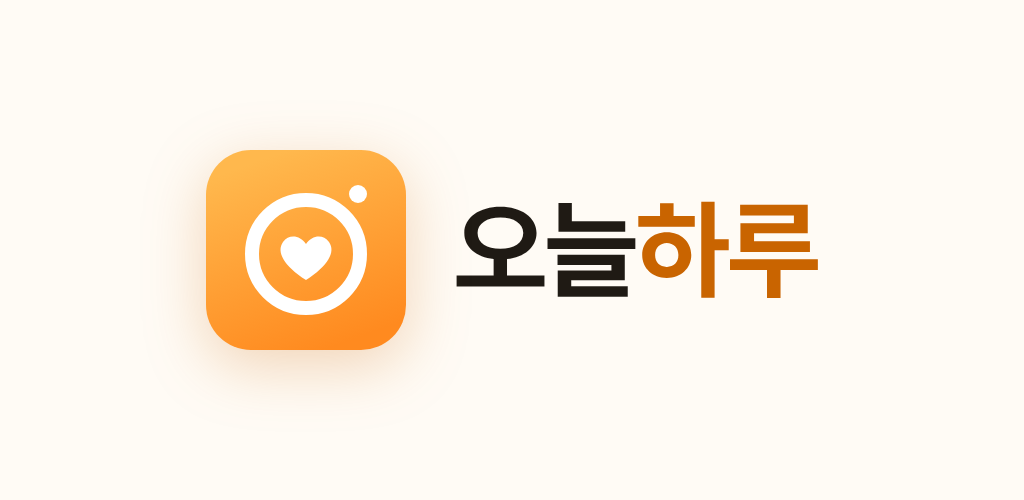
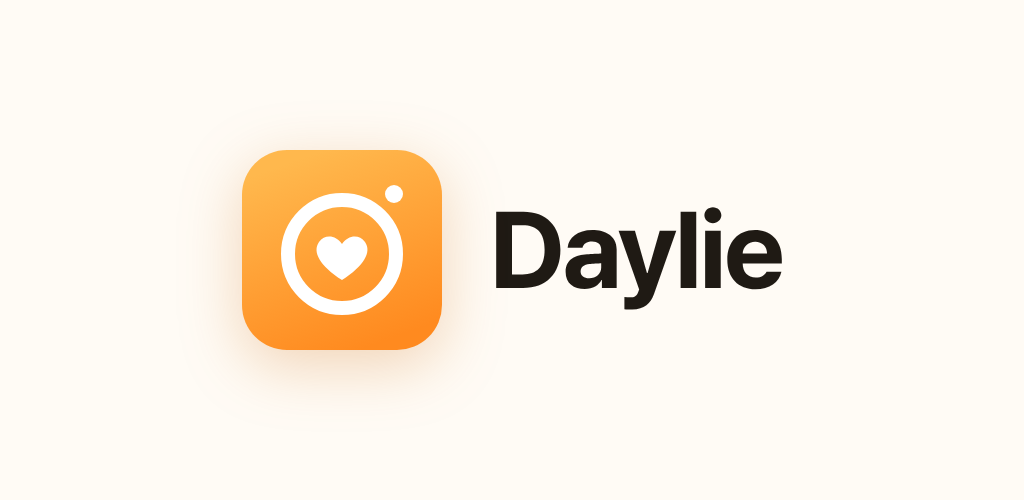
/delete-account page for Google Play; Daylie feature graphic and Play screenshots
Play's Data safety form needs a web page that shows, without the app, how to
delete the account and what is deleted or kept. Static like /privacy and
/terms, Korean with an English section.

The feature graphic still said 오늘하루; it is now the Daylie one from the
brand kit. Phone screenshots are kept with the Play metadata.

Changed region(s): [[0.1875, 0.3, 0.8125, 0.72]]

diff --git a/app/legal/delete-account.html b/app/legal/delete-account.html
@@ -1,0 +1,193 @@
+<!doctype html>
+<html lang="ko">
+<head>
+<meta charset="utf-8" />
+<meta name="viewport" content="width=device-width, initial-scale=1, viewport-fit=cover" />
+<meta name="theme-color" content="#FFB84D" />
+<title>계정 삭제 · Daylie</title>
+<link rel="icon" href="/favicon.ico" sizes="any" />
+<link rel="icon" type="image/svg+xml" href="/favicon.svg" />
+<meta name="description" content="Daylie 계정과 데이터를 삭제하는 방법입니다. How to delete your Daylie account and data." />
+<style>
+  :root {
+    --coral1: #FF8A5B;
+    --coral2: #FF6B6B;
+    --ink: #1c1c1e;
+    --ink-2: #3a3a3c;
+    --muted: #8a8a8e;
+    --line: #ececf0;
+    --warm: #FFF6F1;
+  }
+  * { box-sizing: border-box; }
+  html { -webkit-text-size-adjust: 100%; }
+  body {
+    margin: 0;
+    background: #ffffff;
+    color: var(--ink);
+    font-family: -apple-system, BlinkMacSystemFont, "SF Pro", "Apple SD Gothic Neo",
+                 "Pretendard", "Noto Sans KR", "Segoe UI", system-ui, sans-serif;
+    -webkit-font-smoothing: antialiased;
+    font-size: 18px;
+    line-height: 1.78;
+    word-break: keep-all;
+  }
+  .wrap { max-width: 680px; margin: 0 auto; padding: 0 22px 72px; }
+  header {
+    padding: 34px 0 22px;
+    border-bottom: 1px solid var(--line);
+    margin-bottom: 30px;
+  }
+  .brand {
+    display: inline-block;
+    font-size: 27px;
+    font-weight: 800;
+    letter-spacing: -.6px;
+    background: linear-gradient(135deg, var(--coral1), var(--coral2));
+    -webkit-background-clip: text;
+    background-clip: text;
+    color: transparent;
+    text-decoration: none;
+  }
+  h1 { font-size: 29px; font-weight: 800; letter-spacing: -.7px; margin: 10px 0 6px; }
+  .eff { color: var(--muted); font-size: 16px; font-weight: 600; margin: 0; }
+  h2 {
+    font-size: 21px;
+    font-weight: 800;
+    letter-spacing: -.4px;
+    margin: 40px 0 10px;
+    padding-top: 4px;
+  }
+  h3 { font-size: 18px; font-weight: 800; margin: 24px 0 6px; }
+  p { margin: 0 0 14px; color: var(--ink-2); }
+  ul { margin: 0 0 16px; padding-left: 22px; color: var(--ink-2); }
+  li { margin-bottom: 8px; }
+  strong { color: var(--ink); font-weight: 700; }
+  a { color: #D94F4F; }
+  .lead {
+    background: var(--warm);
+    border: 1px solid #FFE1D4;
+    border-radius: 18px;
+    padding: 18px 20px;
+    margin: 0 0 8px;
+  }
+  .lead p:last-child { margin-bottom: 0; }
+  .todo {
+    display: inline-block;
+    background: #FFF0E8;
+    color: #C2410C;
+    border-radius: 999px;
+    padding: 1px 9px;
+    font-size: 15px;
+    font-weight: 700;
+    white-space: nowrap;
+  }
+  table {
+    width: 100%;
+    border-collapse: collapse;
+    margin: 0 0 18px;
+    font-size: 16.5px;
+  }
+  th, td {
+    text-align: left;
+    vertical-align: top;
+    padding: 11px 10px;
+    border-bottom: 1px solid var(--line);
+    color: var(--ink-2);
+  }
+  th { color: var(--ink); font-weight: 800; background: #FAFAFB; }
+  .contact {
+    background: var(--warm);
+    border-radius: 18px;
+    padding: 18px 20px;
+    margin-top: 10px;
+  }
+  footer {
+    margin-top: 46px;
+    padding-top: 22px;
+    border-top: 1px solid var(--line);
+    color: var(--muted);
+    font-size: 16px;
+  }
+  .footer-links { margin-bottom: 10px; }
+  .footer-links a { font-weight: 700; text-decoration: none; }
+  @media (max-width: 420px) {
+    body { font-size: 17.5px; }
+    h1 { font-size: 26px; }
+    h2 { font-size: 20px; }
+  }
+</style>
+<style>
+  ol { margin: 0 0 16px; padding-left: 24px; color: var(--ink-2); }
+  ol li { margin-bottom: 8px; }
+  .en { margin-top: 48px; padding-top: 8px; border-top: 1px solid var(--line); }
+</style>
+</head>
+<body>
+<div class="wrap">
+
+<header>
+  <a class="brand" href="/">Daylie</a>
+  <h1>계정과 데이터 삭제</h1>
+  <p class="eff">Daylie 계정 삭제 안내 · How to delete your Daylie account</p>
+</header>
+
+<div class="lead">
+  <p><strong>Daylie</strong> 계정은 앱이나 웹사이트에서 직접 지우실 수 있고, 이메일로 요청하셔도 됩니다. 계정을 지우면 아래의 정보가 지워지며 되돌릴 수 없습니다.</p>
+</div>
+
+<h2>1. 앱에서 지우기</h2>
+<ol>
+  <li>Daylie 앱을 열고 로그인합니다.</li>
+  <li>아래쪽 <strong>설정</strong>을 누릅니다.</li>
+  <li>맨 아래 <strong>계정 삭제</strong>를 누르고, 확인 창에서 <strong>삭제</strong>를 누릅니다.</li>
+</ol>
+
+<h2>2. 앱 없이 웹사이트에서 지우기</h2>
+<ol>
+  <li><a href="/">dayliesimple.web.app</a>에 접속해 앱에서 쓰던 계정으로 로그인합니다.</li>
+  <li><strong>설정 → 계정 삭제</strong>를 누르고 확인합니다.</li>
+</ol>
+
+<h2>3. 이메일로 요청하기</h2>
+<p>로그인할 수 없으면 <a href="mailto:gil4him@gmail.com?subject=Daylie%20%EA%B3%84%EC%A0%95%20%EC%82%AD%EC%A0%9C%20%EC%9A%94%EC%B2%AD">gil4him@gmail.com</a>으로 가입하신 이메일 주소와 함께 “계정 삭제”를 요청해 주세요. 본인 확인 후 7일 안에 지우고 결과를 알려드립니다.</p>
+
+<h2>지워지는 정보</h2>
+<ul>
+  <li>계정 정보(이름, 이메일, 로그인 정보)와 설정</li>
+  <li>내가 찍은 사진과 사진에 딸린 기록(시각, 위치, 장소명, 사진 메모)</li>
+  <li>내가 남긴 하트와 한마디, 부모님께 보낸 사진</li>
+  <li>가족 연결, 알림 기록, 알림을 받기 위한 기기 정보</li>
+</ul>
+
+<h2>남는 정보와 보관 기간</h2>
+<ul>
+  <li><strong>부모님 기록</strong>은 따로 지워야 합니다. 부모님 기록은 다른 가족도 함께 볼 수 있어서 계정 삭제로 함께 지워지지 않습니다. 부모님을 등록한 가족(보호자)이 <strong>설정 → 부모님 삭제</strong>에서 지울 수 있고, 그러면 부모님의 사진과 기록이 모두 지워집니다.</li>
+  <li>부모님 기록에 남긴 동의 기록과 중요한 작업 기록(누가 언제 연결·삭제했는지)은 그 부모님 기록이 지워질 때까지 남습니다.</li>
+  <li>백업 사본에서 지워지기까지 최대 30일이 걸릴 수 있습니다.</li>
+</ul>
+
+<h2>계정은 두고 일부만 지우기</h2>
+<ul>
+  <li><strong>사진 한 장</strong>: 사진을 열고 오른쪽 위 <strong>⋯ → 삭제</strong></li>
+  <li><strong>한마디</strong>: 내가 남긴 한마디 옆의 <strong>지우기</strong></li>
+  <li><strong>부모님 기록 전체</strong>: <strong>설정 → 부모님 삭제</strong></li>
+</ul>
+
+<div class="en">
+<h2>Deleting your Daylie account (English)</h2>
+<p><strong>In the app:</strong> open Daylie, sign in, tap <strong>설정</strong> (Settings) at the bottom, then <strong>계정 삭제</strong> (Delete account) and confirm.</p>
+<p><strong>Without the app:</strong> sign in at <a href="/">dayliesimple.web.app</a> with the same account and go to 설정 → 계정 삭제.</p>
+<p><strong>By email:</strong> write to <a href="mailto:gil4him@gmail.com">gil4him@gmail.com</a> from or about the account's email address. We delete it within 7 days and confirm.</p>
+<p><strong>Deleted:</strong> your account (name, email, sign-in), settings, your photos and their time, place and notes, the hearts, comments and photos you sent, your family links, notifications and push device tokens.</p>
+<p><strong>Kept:</strong> a parent's record you registered is shared with other family, so it is deleted separately (설정 → 부모님 삭제), which removes all of that parent's photos and records. Consent and audit entries on a parent's record stay until that record is deleted. Backup copies are cleared within 30 days.</p>
+<p><strong>Partial deletion:</strong> delete a single photo from its ⋯ menu, a comment with 지우기, or a parent's whole record from 설정 → 부모님 삭제.</p>
+</div>
+
+<footer>
+  <div class="footer-links"><a href="/privacy">개인정보처리방침</a> · <a href="/terms">이용약관</a> · <a href="/">Daylie</a></div>
+  문의 gil4him@gmail.com
+</footer>
+
+</div>
+</body>
+</html>

diff --git a/app/src/lib/legal.test.ts b/app/src/lib/legal.test.ts
@@ -1,5 +1,5 @@
-// The two legal pages (legal/README.md): shipped by the simple build only,
-// served at /privacy and /terms as their own static HTML, and never answered
+// The legal pages (legal/README.md) and the account-deletion page: shipped by the simple build only,
+// served at /privacy, /terms and /delete-account as their own static HTML, and never answered
 // from the cached app shell.
 import { describe, it, expect } from 'vitest'
 import { readFileSync } from 'node:fs'
@@ -48,8 +48,8 @@ function emitted(mode: string, pluginName: string): string[] {
 }
 
 describe('legal pages in the build', () => {
-  it('the simple build emits both pages', () => {
-    expect(emitted('simple', 'daylie-legal')).toEqual(['privacy.html', 'terms.html'])
+  it('the simple build emits all three pages', () => {
+    expect(emitted('simple', 'daylie-legal')).toEqual(['privacy.html', 'terms.html', 'delete-account.html'])
   })
 
   it('the full build (TrackByPhoto) ships neither', () => {
@@ -60,15 +60,15 @@ describe('legal pages in the build', () => {
     const pwa = plugins('simple').find((p) => p.name === 'vite-plugin-pwa')
     // The plugin's own options aren't readable from the instance, so assert on
     // the denylist we hand it; keep this in step with vite.config.ts.
-    const denylist = [/^\/__\//, /^\/(privacy|terms)\/?$/]
+    const denylist = [/^\/__\//, /^\/(privacy|terms|delete-account)\/?$/]
     expect(pwa).toBeTruthy()
-    for (const path of ['/privacy', '/privacy/', '/terms', '/terms/']) {
+    for (const path of ['/privacy', '/privacy/', '/terms', '/terms/', '/delete-account']) {
       expect(denylist.some((re) => re.test(path))).toBe(true)
     }
     expect(denylist.some((re) => re.test('/'))).toBe(false)
     expect(denylist.some((re) => re.test('/pair'))).toBe(false)
     expect(readFileSync(new URL('../../vite.config.ts', import.meta.url), 'utf8'))
-      .toContain('/^\\/(privacy|terms)\\/?$/')
+      .toContain('/^\\/(privacy|terms|delete-account)\\/?$/')
   })
 })
 
@@ -84,6 +84,8 @@ describe('hosting serves them as their own pages', () => {
       ['/privacy/', '/privacy.html'],
       ['/terms', '/terms.html'],
       ['/terms/', '/terms.html'],
+      ['/delete-account', '/delete-account.html'],
+      ['/delete-account/', '/delete-account.html'],
     ]) {
       const at = rewrites.findIndex((r) => r.source === source)
       expect(at, `${source} is rewritten`).toBeGreaterThanOrEqual(0)
@@ -161,5 +163,16 @@ describe('what each page has to say', () => {
 
   it('marks what is still open with 확인 필요', () => {
     for (const html of [privacy, terms]) expect(html).toContain('[확인 필요]')
+  })
+})
+
+describe('the account-deletion page (Google Play Data safety link)', () => {
+  const page = read('delete-account.html')
+  it('names the app and shows the in-app, website and email routes', () => {
+    expect(page).toContain('Daylie')
+    for (const step of ['설정', '계정 삭제', 'dayliesimple.web.app', 'mailto:']) expect(page).toContain(step)
+  })
+  it('says what is deleted and what is kept, in Korean and English', () => {
+    for (const s of ['지워지는 정보', '남는 정보', 'Deleted:', 'Kept:']) expect(page).toContain(s)
   })
 })

diff --git a/app/vite.config.ts b/app/vite.config.ts
@@ -25,7 +25,7 @@ function wellKnown(mode: string): Plugin {
 // 개인정보처리방침 and 이용약관 (legal/README.md). Plain static HTML, no JS,
 // served at /privacy and /terms by the rewrites in firebase.json. They
 // describe the simple edition only, so the full build never ships them.
-const LEGAL_PAGES = ['privacy', 'terms'] as const
+const LEGAL_PAGES = ['privacy', 'terms', 'delete-account'] as const
 
 function legalPages(mode: string): Plugin {
   return {
@@ -80,7 +80,7 @@ export default defineConfig(({ mode }) => ({
         // Firebase's sign-in helper pages live under /__/ and must come from
         // the server. /privacy and /terms are their own static pages — the app
         // shell must not answer for them (legalPages above).
-        navigateFallbackDenylist: [/^\/__\//, /^\/(privacy|terms)\/?$/],
+        navigateFallbackDenylist: [/^\/__\//, /^\/(privacy|terms|delete-account)\/?$/],
         cleanupOutdatedCaches: true,
         // A new version takes over as soon as it has arrived instead of
         // waiting for every tab to close; reloadToLatest (src/lib/sw.ts)
